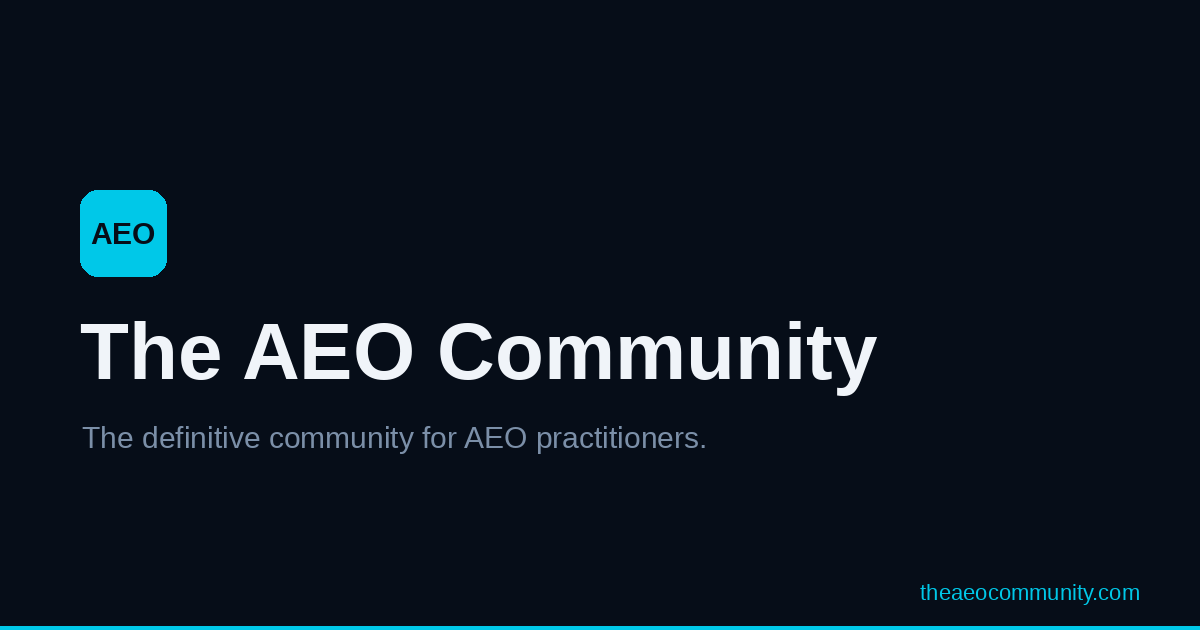
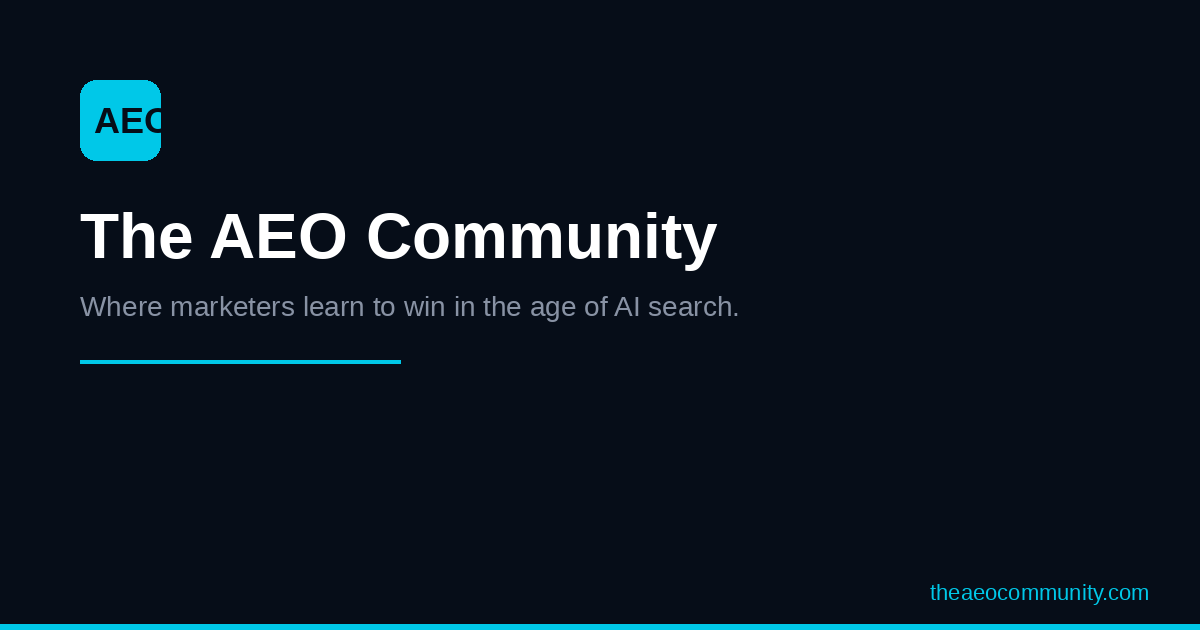
replace language

diff --git a/index.html b/index.html
@@ -3,8 +3,8 @@
 <head>
   <meta charset="UTF-8">
   <meta name="viewport" content="width=device-width, initial-scale=1.0">
-  <title>The AEO Community — Answer Engine Optimization for Practitioners</title>
-  <meta name="description" content="The definitive community for practitioners navigating answer engine optimization, AI visibility, and the new rules of search.">
+  <title>The AEO Community — Answer Engine Optimization for Marketers</title>
+  <meta name="description" content="The definitive community for marketers navigating answer engine optimization, AI visibility, and the new rules of search.">
 
   <!-- Favicon -->
   <link rel="icon" type="image/x-icon" href="/favicon.ico">
@@ -14,8 +14,8 @@
   <!-- Open Graph / social sharing -->
   <meta property="og:type" content="website">
   <meta property="og:url" content="https://theaeocommunity.com/">
-  <meta property="og:title" content="The AEO Community — Answer Engine Optimization for Practitioners">
-  <meta property="og:description" content="The definitive community for practitioners navigating answer engine optimization, AI visibility, and the new rules of search.">
+  <meta property="og:title" content="The AEO Community — Answer Engine Optimization for Marketers">
+  <meta property="og:description" content="The definitive community for marketers navigating answer engine optimization, AI visibility, and the new rules of search.">
   <meta property="og:image" content="https://theaeocommunity.com/og-image.png">
   <meta property="og:image:width" content="1200">
   <meta property="og:image:height" content="630">
@@ -24,8 +24,8 @@
   <!-- Twitter / X Card -->
   <meta name="twitter:card" content="summary_large_image">
   <meta name="twitter:url" content="https://theaeocommunity.com/">
-  <meta name="twitter:title" content="The AEO Community — Answer Engine Optimization for Practitioners">
-  <meta name="twitter:description" content="The definitive community for practitioners navigating answer engine optimization, AI visibility, and the new rules of search.">
+  <meta name="twitter:title" content="The AEO Community — Answer Engine Optimization for Marketers">
+  <meta name="twitter:description" content="The definitive community for marketers navigating answer engine optimization, AI visibility, and the new rules of search.">
   <meta name="twitter:image" content="https://theaeocommunity.com/og-image.png">
 
   <!-- AEO: Structured data -->
@@ -38,7 +38,7 @@
         "@id": "https://theaeocommunity.com/#website",
         "url": "https://theaeocommunity.com/",
         "name": "The AEO Community",
-        "description": "The definitive community for practitioners navigating answer engine optimization, AI visibility, and the new rules of search."
+        "description": "The definitive community for marketers navigating answer engine optimization, AI visibility, and the new rules of search."
       },
       {
         "@type": "Organization",
@@ -65,7 +65,7 @@
             "name": "What is the difference between AEO, GEO, and AIO?",
             "acceptedAnswer": {
               "@type": "Answer",
-              "text": "AEO (answer engine optimization), GEO (generative engine optimization), and AIO (AI optimization) all refer to the practice of making content more visible and citable in AI-generated responses. AEO is the most widely used term among practitioners. All three describe strategies to improve how brands appear in AI search outputs rather than traditional search rankings."
+              "text": "AEO (answer engine optimization), GEO (generative engine optimization), and AIO (AI optimization) all refer to the practice of making content more visible and citable in AI-generated responses. AEO is the most widely used term among marketers. All three describe strategies to improve how brands appear in AI search outputs rather than traditional search rankings."
             }
           },
           {
@@ -73,7 +73,7 @@
             "name": "Who is The AEO Community for?",
             "acceptedAnswer": {
               "@type": "Answer",
-              "text": "The AEO Community is for practitioners doing the actual work of answer engine optimization: SEO strategists leveling up into AEO, content marketers, growth practitioners, marketing leaders, startup founders, and in-house teams. The community is practitioner-first — members share experiments, data, and real strategies rather than vague best practices."
+              "text": "The AEO Community is for marketers doing the actual work of answer engine optimization: SEO strategists leveling up into AEO, content marketers, growth marketers, marketing leaders, startup founders, and in-house teams. The community is practitioner-first — members share experiments, data, and real strategies rather than vague best practices."
             }
           },
           {
@@ -566,7 +566,7 @@
       </div>
       <h1>The home of AEO.</h1>
       <p class="hero-sub">
-        The definitive community for practitioners navigating answer engine optimization, AI visibility, and the new rules of search.
+        The definitive community for marketers navigating answer engine optimization, AI visibility, and the new rules of search.
       </p>
       <div class="beehiiv-wrap" style="max-width: 400px; margin: 0 auto 12px;">
         <iframe
@@ -578,7 +578,7 @@
         ></iframe>
       </div>
       <p class="beehiiv-success" style="display:none; color: var(--accent); font-size: 15px; margin-bottom: 20px;">You're in. Check your email for the Slack invite.</p>
-      <p class="hero-meta" id="hero-meta-text">Free to join. No pitch. Just practitioners sharing what works.</p>
+      <p class="hero-meta" id="hero-meta-text">Free to join. No pitch. Just marketers sharing what works.</p>
     </div>
   </section>
 
@@ -593,7 +593,7 @@
         </div>
         <div class="why-right">
           <div class="why-card">
-            <div class="why-card-title">Practitioners first</div>
+            <div class="why-card-title">Marketers first</div>
             <div class="why-card-body">Everyone here is doing the actual work: running experiments, pulling data, building strategies in AEO and AI-driven search.</div>
           </div>
           <div class="why-card">
@@ -627,7 +627,7 @@
         </div>
         <div class="channel-card">
           <div class="channel-name"><span class="channel-hash">#</span>ai-search-news</div>
-          <div class="channel-desc">What's changing in AI search and why it matters to practitioners right now.</div>
+          <div class="channel-desc">What's changing in AI search and why it matters to marketers right now.</div>
         </div>
         <div class="channel-card">
           <div class="channel-name"><span class="channel-hash">#</span>tools-and-resources</div>
@@ -650,12 +650,12 @@
     <div class="section-inner">
       <div class="who-layout">
         <div class="section-label">Who's here</div>
-        <h2>Practitioners first.</h2>
+        <h2>Marketers first.</h2>
         <p class="lead">People running experiments, pulling data, and building AEO strategies. If you're doing the actual work, this is your place.</p>
         <div class="personas">
           <div class="persona-tag">SEO strategists leveling up into AEO</div>
           <div class="persona-tag">Content marketers</div>
-          <div class="persona-tag">Growth practitioners</div>
+          <div class="persona-tag">Growth marketers</div>
           <div class="persona-tag">Marketing leaders</div>
           <div class="persona-tag">Startup founders</div>
           <div class="persona-tag">Agency professionals</div>
@@ -671,7 +671,7 @@
       <div class="cta-box">
         <div class="section-label">Join the community</div>
         <h2>Ready to get in?</h2>
-        <p>Free to join. No pitch. Just practitioners sharing what's actually working in AI search.</p>
+        <p>Free to join. No pitch. Just marketers sharing what's actually working in AI search.</p>
         <div class="beehiiv-wrap" style="max-width: 400px; margin: 0 auto;">
           <iframe
             data-beehiiv
